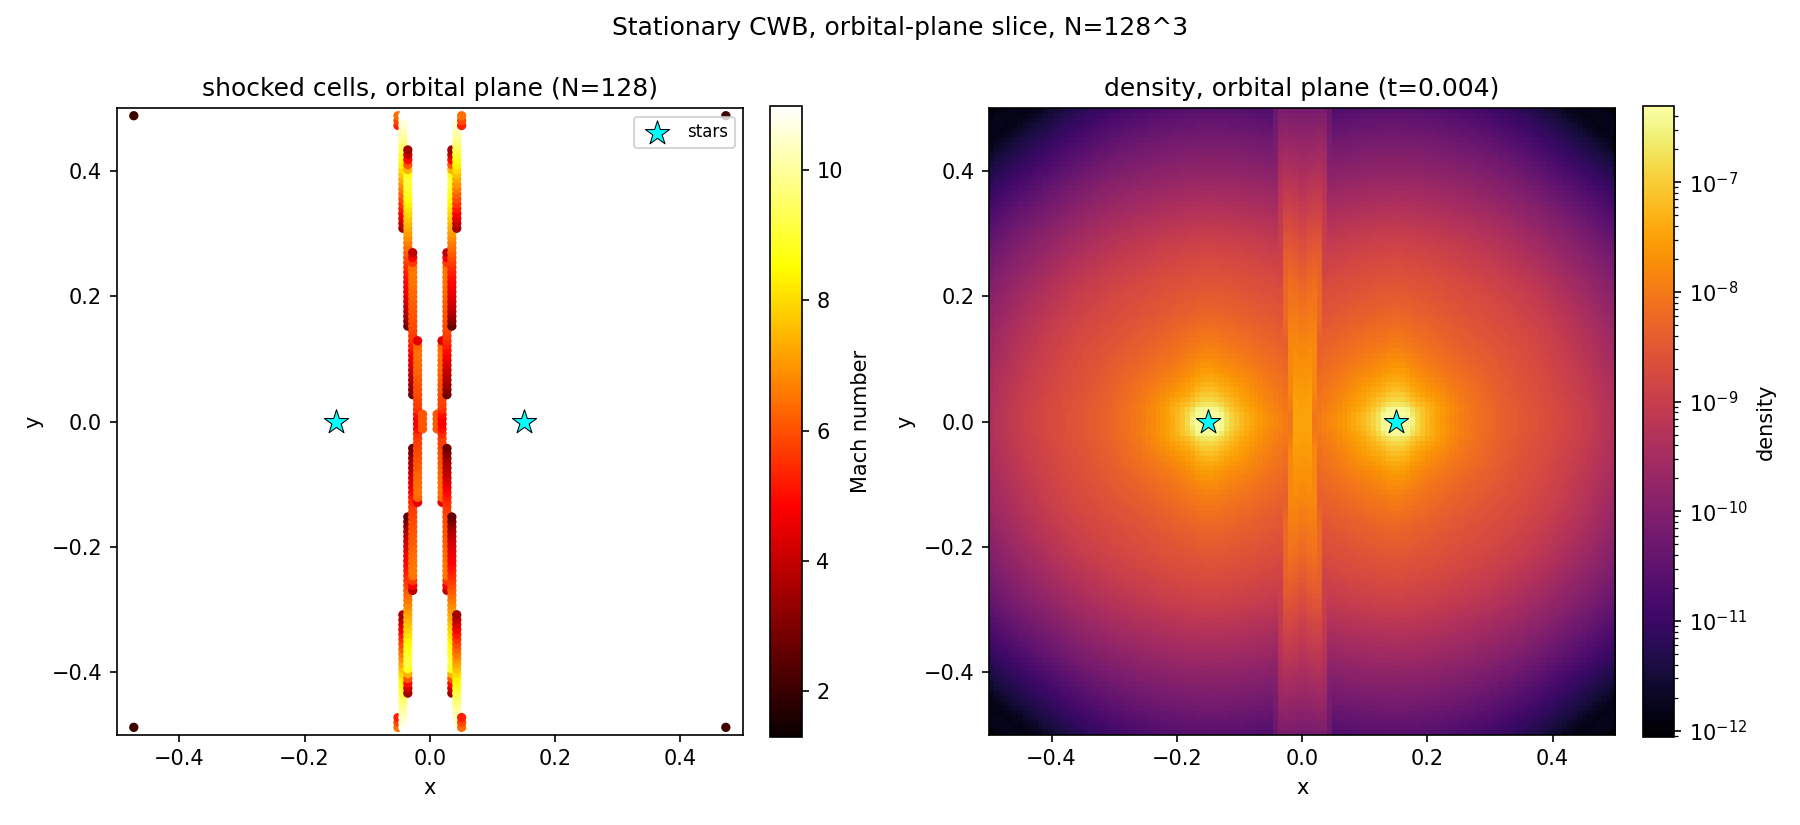
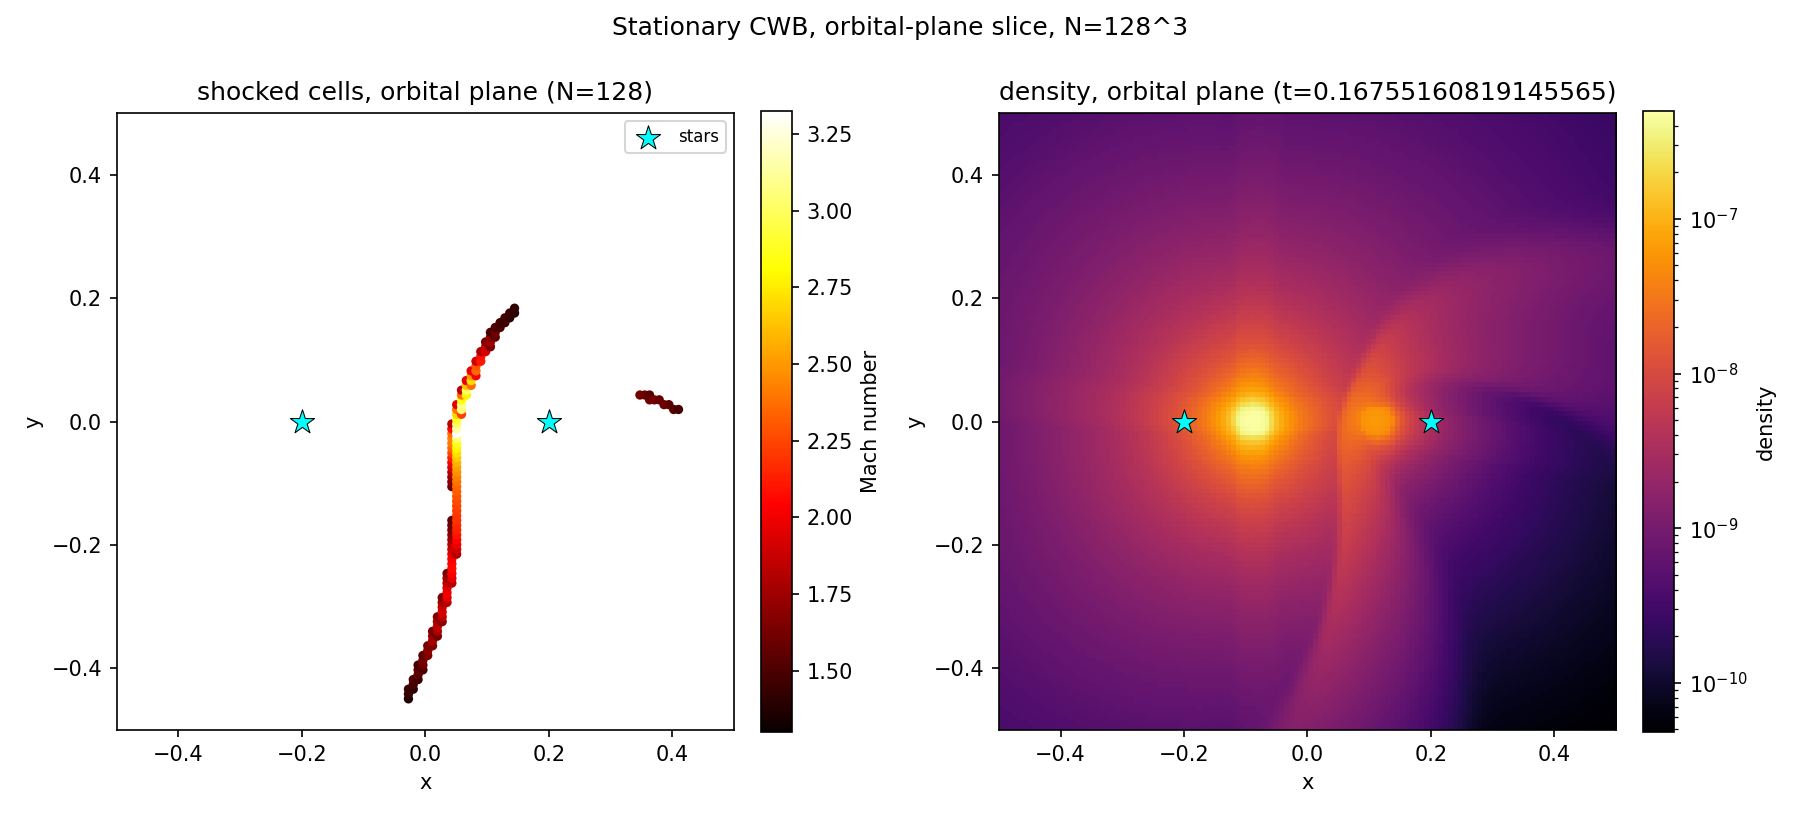
tune CWB setup: eccentric binary params, N-body orbit, open boundaries
Switch the CWB shock-finder example to unequal-mass stars with individual
wind parameters, drive the binary through the N-body integrator instead of
fixed positions, and open the domain boundaries; bump the shock-finder run
to 256 cells and refresh the example figures.

diff --git a/pytests/shock_finder3D/_cwb_setup.py b/pytests/shock_finder3D/_cwb_setup.py
@@ -52,7 +52,9 @@ import astropy.constants as const
 from astropy import units as u
 
 # astronomix constants
-from astronomix import CARTESIAN, FINITE_VOLUME, HLLC, MINMOD
+from astronomix import CARTESIAN, FINITE_VOLUME, HLLC
+from astronomix.option_classes.simulation_config import MUSCL, SPLIT, MINMOD
+from astronomix import OPEN_BOUNDARY, FORWARDS
 
 # astronomix containers
 from astronomix import CodeUnits, SimulationConfig, SimulationParams
@@ -65,18 +67,32 @@ from astronomix import (
     get_registered_variables,
     time_integration,
 )
+from astronomix import (
+    CodeUnits,
+    WindParams,
+    SimulationConfig,
+    SimulationParams,
+    BoundarySettings,
+    BoundarySettings1D,
+    SnapshotSettings,
+)
 from astronomix.option_classes import EI, WindConfig, WindParams
+from astronomix.option_classes import NBodyConfig, NBodyParams, NGP
 
 from astronomix.shock_finder3D.pfrommer_shock_finder import find_shocks_pfrommer
+
+from astronomix._modules._nbody._nbody import binary_starting_orbits_at_phase
 
 # ---- physical setup (see examples/stellar_wind/colliding_wind_binary.py) ----
 GAMMA = 5.0 / 3.0
 BOX_SIZE = 1.0
-SEPARATION = 0.3  # binary separation, in code units (box-centered coordinates)
+SEPARATION = 0.4  # binary separation, in code units (box-centered coordinates)
 
-STAR_MASS = 45 * u.M_sun  # equal for both stars -> mirror-symmetric collision
-MASS_LOSS_RATE = 7e-7 * u.M_sun / u.yr  # equal for both stars
-WIND_VELOCITY = 2000 * u.km / u.s  # equal for both stars
+# STAR_MASS = 45 * u.M_sun  # equal for both stars -> mirror-symmetric collision
+M1 = 50 * u.M_sun
+M2 = 40 * u.M_sun
+# MASS_LOSS_RATE = 7e-7 * u.M_sun / u.yr  # equal for both stars
+# WIND_VELOCITY = 2000 * u.km / u.s  # equal for both stars
 SEPARATION_PHYSICAL = 20 * u.au
 
 # warm neutral/ionized ambient medium (same values as the example script)
@@ -86,15 +102,23 @@ P_0 = 3e4 * u.K / u.cm**3 * const.k_B
 # code units: length set by the physical separation, mass by one star's mass,
 # velocity by the resulting Keplerian scale (matches CodeUnits usage in
 # colliding_wind_binary.py, though these stars do not orbit here).
-CODE_LENGTH = SEPARATION_PHYSICAL / SEPARATION
-CODE_MASS = STAR_MASS
-CODE_VELOCITY = np.sqrt(const.G * CODE_MASS / CODE_LENGTH).to(u.km / u.s)
-CODE_UNITS = CodeUnits(CODE_LENGTH, CODE_MASS, CODE_VELOCITY)
+# CODE_LENGTH = SEPARATION_PHYSICAL / SEPARATION
+# CODE_MASS = M1 # STAR_MASS
+# CODE_VELOCITY = np.sqrt(const.G * CODE_MASS / CODE_LENGTH).to(u.km / u.s)
+# CODE_UNITS = CodeUnits(CODE_LENGTH, CODE_MASS, CODE_VELOCITY)
 
-WIND_MASS_LOSS_RATE = MASS_LOSS_RATE.to(
-    CODE_UNITS.code_mass / CODE_UNITS.code_time
-).value
-WIND_TERMINAL_VELOCITY = WIND_VELOCITY.to(CODE_UNITS.code_velocity).value
+sep_in_au = 20 # upper limit: 80, lower limit: 5
+length_temp = sep_in_au / 10
+mass_temp = 1
+code_length = length_temp * u.au
+code_mass = mass_temp * u.M_sun
+code_velocity = np.sqrt(const.G * code_mass / code_length).to(u.km / u.s)
+CODE_UNITS = CodeUnits(code_length, code_mass, code_velocity)
+
+# WIND_MASS_LOSS_RATE = MASS_LOSS_RATE.to(
+#     CODE_UNITS.code_mass / CODE_UNITS.code_time
+# ).value
+# WIND_TERMINAL_VELOCITY = WIND_VELOCITY.to(CODE_UNITS.code_velocity).value
 RHO_AMBIENT = RHO_0.to(CODE_UNITS.code_density).value
 P_AMBIENT = P_0.to(CODE_UNITS.code_pressure).value
 
@@ -106,13 +130,47 @@ P_AMBIENT = P_0.to(CODE_UNITS.code_pressure).value
 # two wind bubbles have merged into a genuine wind-collision region (not just
 # two independent, not-yet-touching bubbles) while the bow shocks stay
 # comfortably inside the domain (max |x| well below BOX_SIZE / 2).
-T_END = 4e-3
+# T_END = 4e-3
 MACH_MIN = 1.3
 
 # box-centered coordinates (box center at the origin), same convention as
 # helper_data.geometric_centers - box_center; see
 # astronomix._modules._stellar_wind.stellar_wind._wind_source_distances.
 STAR_POSITIONS = jnp.array([[-SEPARATION / 2, 0.0, 0.0], [SEPARATION / 2, 0.0, 0.0]])
+
+mass_loss_rate_1 = 6.5e-7 * u.M_sun / u.yr
+mass_loss_rate_2 = 6.5e-8 * u.M_sun / u.yr
+wind_velocity_1 = 2200 * u.km / u.s
+wind_velocity_2 = 1850 * u.km / u.s
+eccentricity = 0.0
+cos_inclination = 1.0
+turbulence_strength = 0.0
+
+a = SEPARATION
+
+m1 = M1.to(CODE_UNITS.code_mass).value
+m2 = M2.to(CODE_UNITS.code_mass).value
+Period = 2 * np.pi * np.sqrt(a**3 / ((m1 + m2)))
+
+# T_END = (3.5 * u.yr).to(CODE_UNITS.code_time).value
+T_END = Period
+print(f"End time in code units: {T_END}")
+
+m1 = M1.to(CODE_UNITS.code_mass).value
+m2 = M2.to(CODE_UNITS.code_mass).value
+mlr1 = mass_loss_rate_1.to(CODE_UNITS.code_mass / CODE_UNITS.code_time).value
+mlr2 = mass_loss_rate_2.to(CODE_UNITS.code_mass / CODE_UNITS.code_time).value
+v_inf1 = wind_velocity_1.to(CODE_UNITS.code_velocity).value
+v_inf2 = wind_velocity_2.to(CODE_UNITS.code_velocity).value
+inclination_deg = float(jnp.rad2deg(jnp.arccos(cos_inclination)))
+
+masses = jnp.array([m1, m2])
+# initial N-body phase-space state [t, x, y, z, vx, vy, vz] per body,
+# flattened -- seeds astronomix._modules._nbody._nbody's RK4 integrator,
+# advanced jointly with the hydro update every step.
+nbody_state = binary_starting_orbits_at_phase(
+    a, eccentricity, inclination_deg, m1, m2, phi=0.0, true_anom_deg=0.0,
+)
 
 
 def run_cwb(num_cells):
@@ -128,10 +186,13 @@ def run_cwb(num_cells):
     """
     config = SimulationConfig(
         progress_bar=True,
+        first_order_fallback=True,
         geometry=CARTESIAN,
         solver_mode=FINITE_VOLUME,
-        riemann_solver=HLLC,
+        split=SPLIT,
         limiter=MINMOD,
+        time_integrator=MUSCL,
+        differentiation_mode=FORWARDS,
         dimensionality=3,
         box_size=BOX_SIZE,
         num_cells=num_cells,
@@ -139,8 +200,19 @@ def run_cwb(num_cells):
         wind_config=WindConfig(
             stellar_wind=True,
             num_injection_cells=num_cells // 32,
-            wind_injection_scheme=EI,
+            # wind_injection_scheme=EI,
             trace_wind_density=False,
+        ),
+        
+        nbody_config=NBodyConfig(
+            nbody=True,
+            deposit_particles=NGP,
+            central_object_only=False,
+        ),
+        boundary_settings=BoundarySettings(
+            BoundarySettings1D(OPEN_BOUNDARY, OPEN_BOUNDARY),
+            BoundarySettings1D(OPEN_BOUNDARY, OPEN_BOUNDARY),
+            BoundarySettings1D(OPEN_BOUNDARY, OPEN_BOUNDARY),
         ),
         # nbody_config left at its default (nbody=False): the two wind
         # sources stay fixed at STAR_POSITIONS instead of following an
@@ -168,14 +240,18 @@ def run_cwb(num_cells):
         t_end=T_END,
         gamma=GAMMA,
         C_cfl=0.4,
+        nbody_params=NBodyParams(
+            masses=masses,
+            nbody_state=nbody_state,
+        ),
         wind_params=WindParams(
             wind_mass_loss_rates=jnp.array(
-                [WIND_MASS_LOSS_RATE, WIND_MASS_LOSS_RATE]
+                [mlr1, mlr2]
             ),
             wind_final_velocities=jnp.array(
-                [WIND_TERMINAL_VELOCITY, WIND_TERMINAL_VELOCITY]
+                [v_inf1, v_inf2]
             ),
-            wind_injection_positions=STAR_POSITIONS,
+            # wind_injection_positions=STAR_POSITIONS,
         ),
     )
 

diff --git a/pytests/shock_finder3D/cwb_shock_finder.py b/pytests/shock_finder3D/cwb_shock_finder.py
@@ -77,7 +77,7 @@ from _cwb_setup import (
 FIG_DIR = Path(__file__).resolve().parent / "figures"
 FIG_DIR.mkdir(exist_ok=True)
 
-NUM_CELLS = 128
+NUM_CELLS = 256
 STRONG_SHOCK_RHO_RATIO = (GAMMA + 1.0) / (GAMMA - 1.0)  # = 4 for gamma = 5/3
 # Fraction of surface cells required to respect the single-shock strong-shock
 # bound; see the module docstring's note on compound shocks. Empirically,
